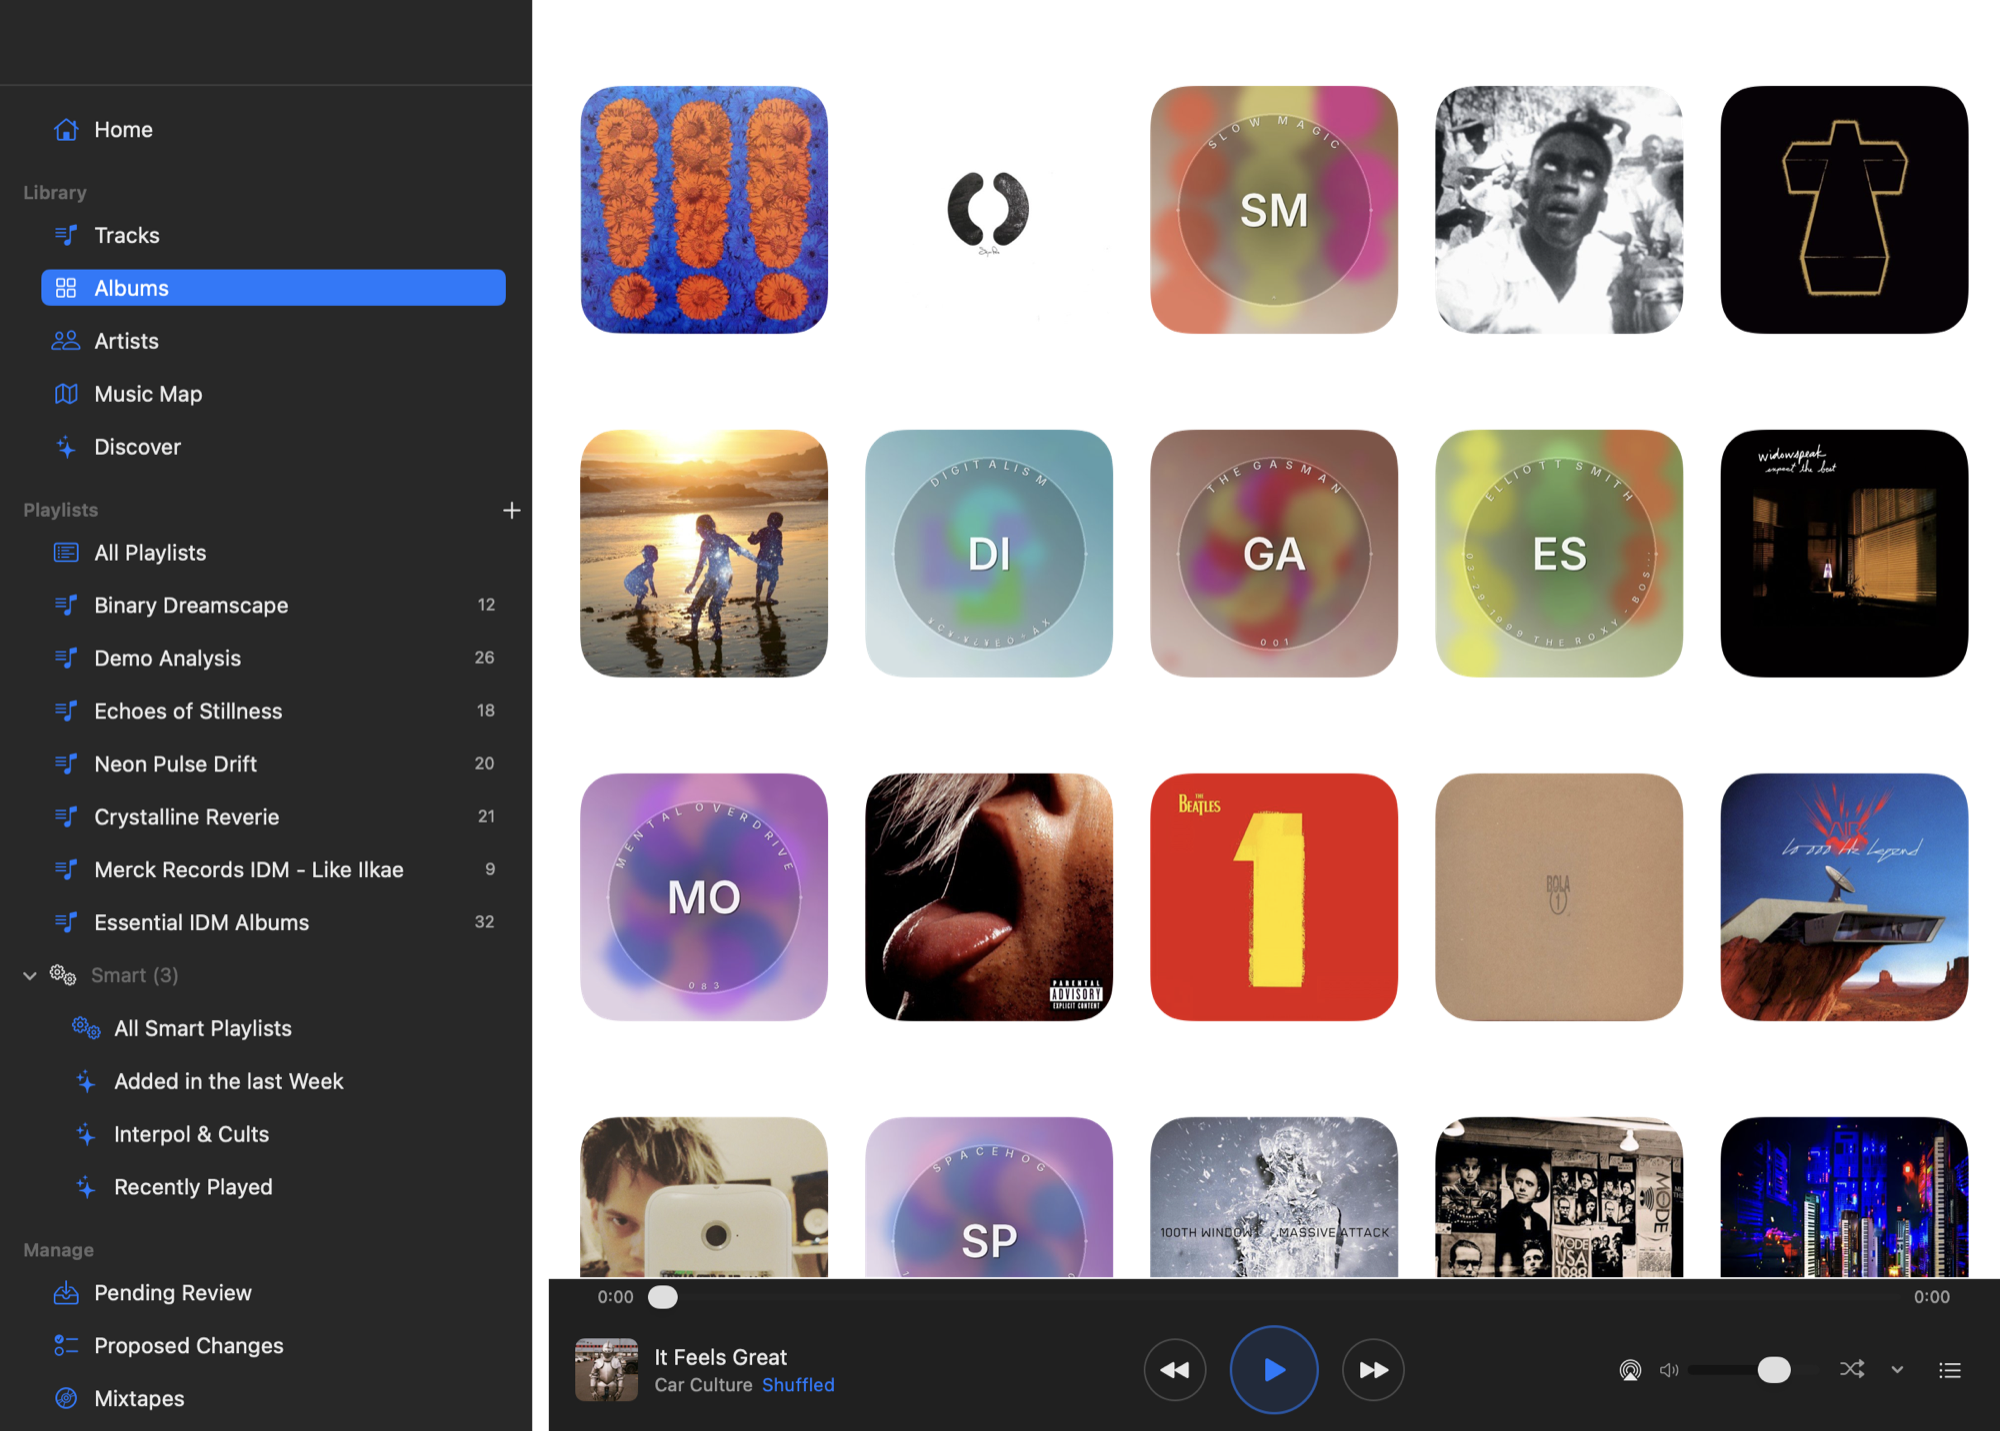
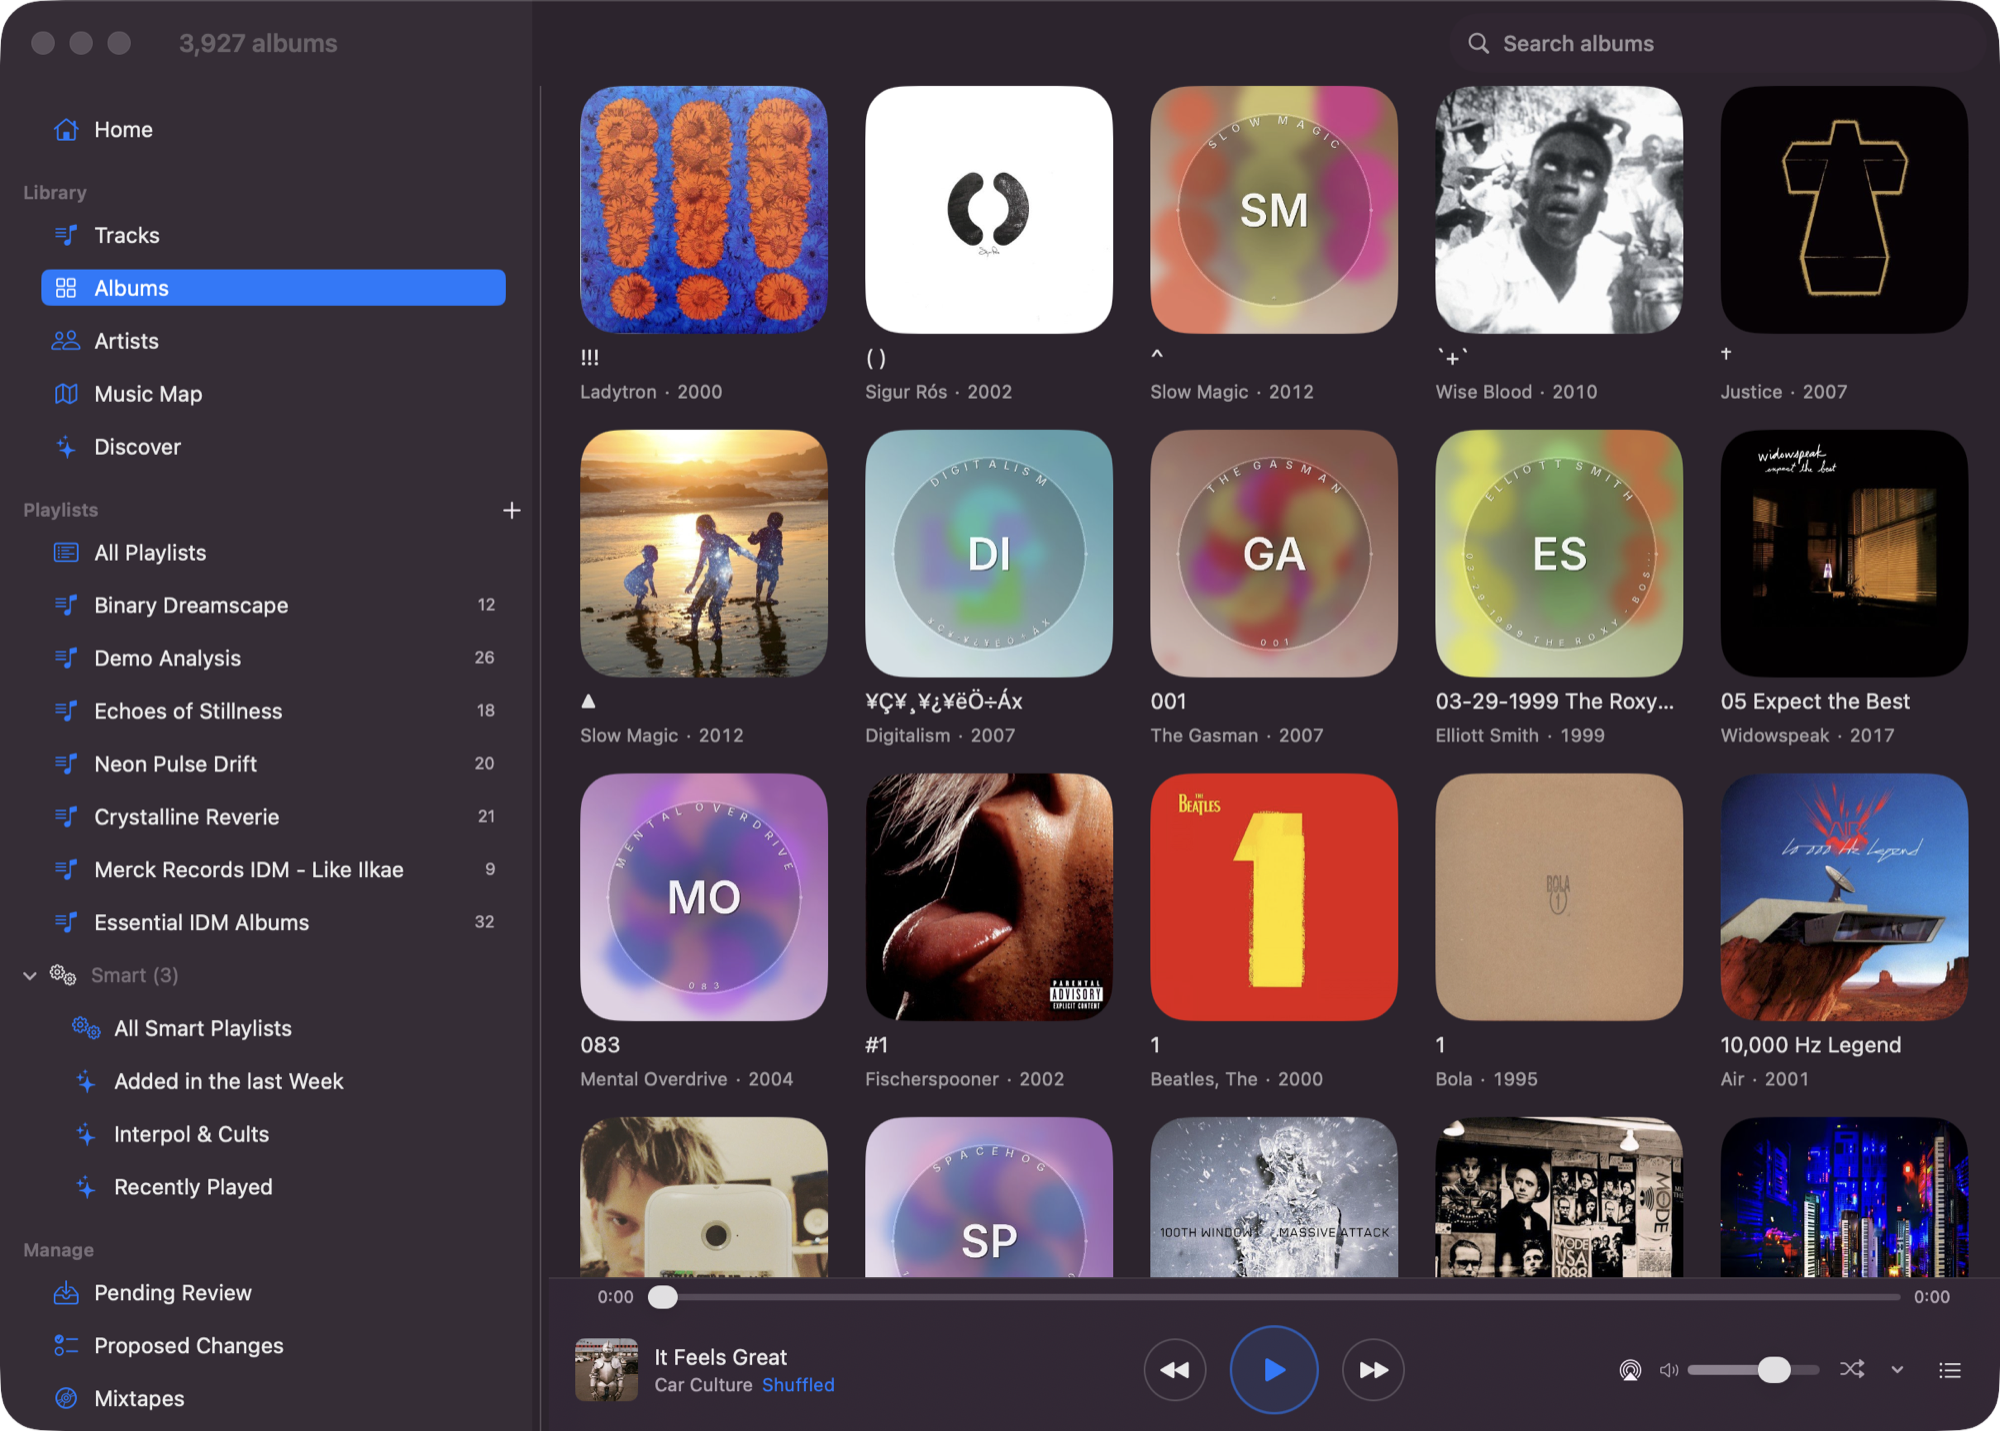
Screenshot the Mac app the way a person would
Jeff asked for window chrome, which the in-app capture cannot produce by design — and
using the system tool turned out to fix more than the chrome.

`screencapture -o -x -l <windowid>` aimed at the Familiar window got every destination
right on the first attempt: traffic lights, title bar, rounded corners, **and no black
sidebars and no blank screens.** It reads what the compositor actually produced, where
a layer walk sees only what the app asked to be drawn.

That is the honest resolution of the two defects I could not explain: the sidebar
rendering on some destinations and not others, and smart playlists coming back blank
and byte-identical twelve seconds apart. Both are gone, and the smart-playlists shot
now shows all three playlists with their rule summaries.

Navigation still goes through MCP — the app is driven programmatically and nothing is
clicked — so this keeps the half of ADR-0053 that removed the blocker and swaps the
half that limited the fidelity.

Five on the page now: albums, artists, discover, music map, smart playlists.

ADR-0053's consequences record the measurement and the split: the in-app capture stays
the MCP tool, permission-free and good enough for an assistant checking its own work;
website screenshots use the system tool, which needs the Screen Recording permission
that point 6 exists to keep the *app* from asking for. A person capturing on their own
machine is not the app.

Claude-Session: https://claude.ai/code/session_014P9p2fvFnyiywBxGkv4gfW

diff --git a/site/index.html b/site/index.html
@@ -74,8 +74,11 @@ MUSIC_LIBRARY_PATH=~/Music docker compose -f docker-compose.prod.yml up -d</code
 <section id="screenshots">
   <h2>Screenshots</h2>
   <div class="screenshot-grid">
-    <figure class="shot"><a href="./screenshots/mac-albums.png" target="_blank" rel="noopener"><img src="./screenshots/mac-albums.png" alt="The Mac app — albums" loading="lazy"></a><figcaption>Mac app — albums</figcaption></figure>
-    <figure class="shot"><a href="./screenshots/mac-artists.png" target="_blank" rel="noopener"><img src="./screenshots/mac-artists.png" alt="The Mac app — artists" loading="lazy"></a><figcaption>Mac app — artists</figcaption></figure>
+    <figure class="shot"><a href="./screenshots/mac-albums.png" target="_blank" rel="noopener"><img src="./screenshots/mac-albums.png" alt="The Mac app showing the albums grid" loading="lazy"></a><figcaption>Mac app — albums</figcaption></figure>
+    <figure class="shot"><a href="./screenshots/mac-artists.png" target="_blank" rel="noopener"><img src="./screenshots/mac-artists.png" alt="The Mac app showing the artists grid" loading="lazy"></a><figcaption>Mac app — artists</figcaption></figure>
+    <figure class="shot"><a href="./screenshots/mac-discover.png" target="_blank" rel="noopener"><img src="./screenshots/mac-discover.png" alt="The Mac app showing new releases from your artists" loading="lazy"></a><figcaption>Mac app — discover</figcaption></figure>
+    <figure class="shot"><a href="./screenshots/mac-music-map.png" target="_blank" rel="noopener"><img src="./screenshots/mac-music-map.png" alt="The Mac app showing the music map" loading="lazy"></a><figcaption>Mac app — music map</figcaption></figure>
+    <figure class="shot"><a href="./screenshots/mac-smart-playlists.png" target="_blank" rel="noopener"><img src="./screenshots/mac-smart-playlists.png" alt="The Mac app showing smart playlists and their rules" loading="lazy"></a><figcaption>Mac app — smart playlists</figcaption></figure>
     <figure class="shot"><a href="./screenshots/01-library-tracks.png" target="_blank" rel="noopener"><img src="./screenshots/01-library-tracks.png" alt="Library — tracks" loading="lazy"></a><figcaption>Library — tracks</figcaption></figure>
     <figure class="shot"><a href="./screenshots/04-library-mood-grid.png" target="_blank" rel="noopener"><img src="./screenshots/04-library-mood-grid.png" alt="Mood grid" loading="lazy"></a><figcaption>Mood grid</figcaption></figure>
     <figure class="shot"><a href="./screenshots/05-library-music-map.png" target="_blank" rel="noopener"><img src="./screenshots/05-library-music-map.png" alt="Music map" loading="lazy"></a><figcaption>Music map</figcaption></figure>
